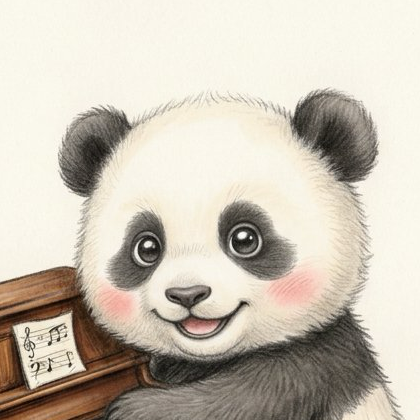
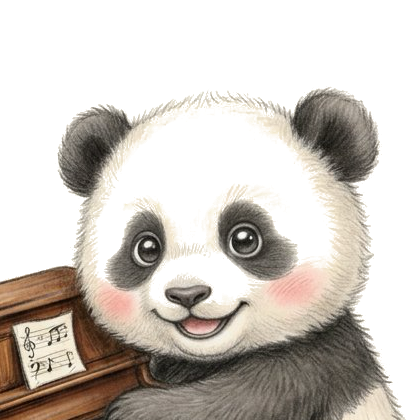
Handle transparent mascot correctly across contexts; update tagline
Item 37: Sid removed the cream background from the mascot art (commit
9b407c4, flood-filled from the borders, verified it doesn't bleed
through fur/sheet-music). Two things needed careful handling, not a
blind find-and-replace:

- Apple's iOS App Store icon spec requires NO alpha channel at all —
  verified the new AppIcon-512@2x.png is flattened onto a solid opaque
  cream background (#fdf6fa) before the same tightened crop from item
  32, confirmed via file/PIL it saves as RGB, not RGBA.
- PWA/app-icon-style sizes (apple-touch-icon, manifest install icons:
  180/192/512) flattened to opaque for the same reason by extension —
  per Sid's own "flattening is the safer default for app-icon-style
  uses" guidance; favicon sizes (16/32) and the narrator avatar
  (mascot-face.png, regenerated from the new transparent source) kept
  transparent, since those are in-page/browser-chrome display, not
  app-icon contexts. iOS launch screen regenerated from the new art too.
- Verified the transparency cutout itself is clean: sampled alpha
  values at the corners vs. the panda/piano silhouette, and ascii-mapped
  the full alpha channel at a coarse grid to confirm a coherent cutout
  with no stray transparent holes in the fur.
- assets/mascot-poses/*.png background removal explicitly NOT done this
  pass (Sid flagged it as optional) — stated plainly in STATUS.md as a
  real follow-up, not silently skipped.

Also: tagline changed to Sid's exact wording, "Learn any song in piano
[…]

diff --git a/index.html b/index.html
@@ -19,7 +19,7 @@
   <header class="hk-header">
     <img src="assets/mascot-square.png" alt="Hayden Keys mascot — a hand-drawn panda playing an upright piano" class="hk-logo" />
     <h1>Hayden Keys</h1>
-    <p class="hk-tagline">Learn piano the way four chords taught the world a hundred songs.</p>
+    <p class="hk-tagline">Learn any song in piano for free!</p>
   </header>
 
   <nav class="hk-tabs">

diff --git a/privacy.html b/privacy.html
@@ -14,7 +14,7 @@
   <header class="hk-header">
     <img src="assets/mascot-square.png" alt="Hayden Keys mascot — a hand-drawn panda playing an upright piano" class="hk-logo" />
     <h1>Hayden Keys</h1>
-    <p class="hk-tagline">Learn piano the way four chords taught the world a hundred songs.</p>
+    <p class="hk-tagline">Learn any song in piano for free!</p>
   </header>
 
   <main>

diff --git a/STATUS.md b/STATUS.md
@@ -939,3 +939,47 @@ wired up, and re-verified working — with one real bug found and fixed
 behavior surfaced and explained (not fixed, since redesigning the SW
 update strategy wasn't asked for). The lesson count is now a clean,
 duplicate-free 100. No other regressions found.
+
+## 2026-10-05 update: transparent mascot background + tagline change
+
+- [x] **Transparent mascot PNGs** (Sid's own edit, commit `9b407c4`,
+      flood-filled from the image borders rather than a naive global
+      color threshold) merged in and verified: spot-checked alpha
+      channel values at the corners (0, fully transparent) vs. the
+      panda/piano silhouette (255, fully opaque), and ascii-mapped the
+      whole alpha channel at a coarse grid to confirm a clean, coherent
+      cutout with no holes bled through the fur or sheet music.
+- [x] **Apple's no-alpha requirement for the iOS App Store icon handled
+      correctly**: the new transparent `mascot-square.png` is NOT used
+      directly for `AppIcon-512@2x.png` — it's flattened onto a solid
+      opaque cream background (`#fdf6fa`, the site's own background
+      color) first, then the same tightened crop from item 32 is
+      reapplied, confirmed via `file`/PIL that the saved icon has mode
+      `RGB` (no alpha channel at all).
+- [x] **PWA/app-icon-style sizes flattened, favicon sizes kept
+      transparent** — per Sid's own guidance ("flattening is the safer
+      default for app-icon-style uses, reserve pure transparency for
+      in-page display: header/favicon/narrator avatar"): `icon-16.png`/
+      `icon-32.png` (favicon `<link>` tags) stay transparent (`RGBA`);
+      `icon-180.png` (apple-touch-icon), `icon-192.png`, `icon-512.png`
+      (PWA manifest install icons) are flattened to opaque `RGB`. The
+      iOS launch screen (`Splash.imageset`) was also regenerated from
+      the new art for consistency.
+- [x] **Narrator avatar (`assets/mascot-face.png`) regenerated as
+      transparent** too, from the new source, same crop region as
+      before — explicitly one of the "in-page display" uses Sid called
+      out for keeping transparency.
+- [x] **Tagline changed** to Sid's exact wording, "Learn any song in
+      piano for free!", replacing "Learn piano the way four chords
+      taught the world a hundred songs." in both `index.html` and
+      `privacy.html` (the only two places it appeared).
+- [ ] **`assets/mascot-poses/*.png` background removal** — explicitly
+      flagged by Sid as optional/not required this pass. Not done; those
+      12 files still have their original cream background. Flagging as
+      a real, known follow-up rather than silently leaving it undone.
+
+Verified in a real browser: header and narrator avatar both now show a
+clean transparent edge blending into the page's own pastel gradient
+background (no visible cream square); the new tagline displays
+correctly; zero console errors beyond the known sandbox service-worker
+noise.
